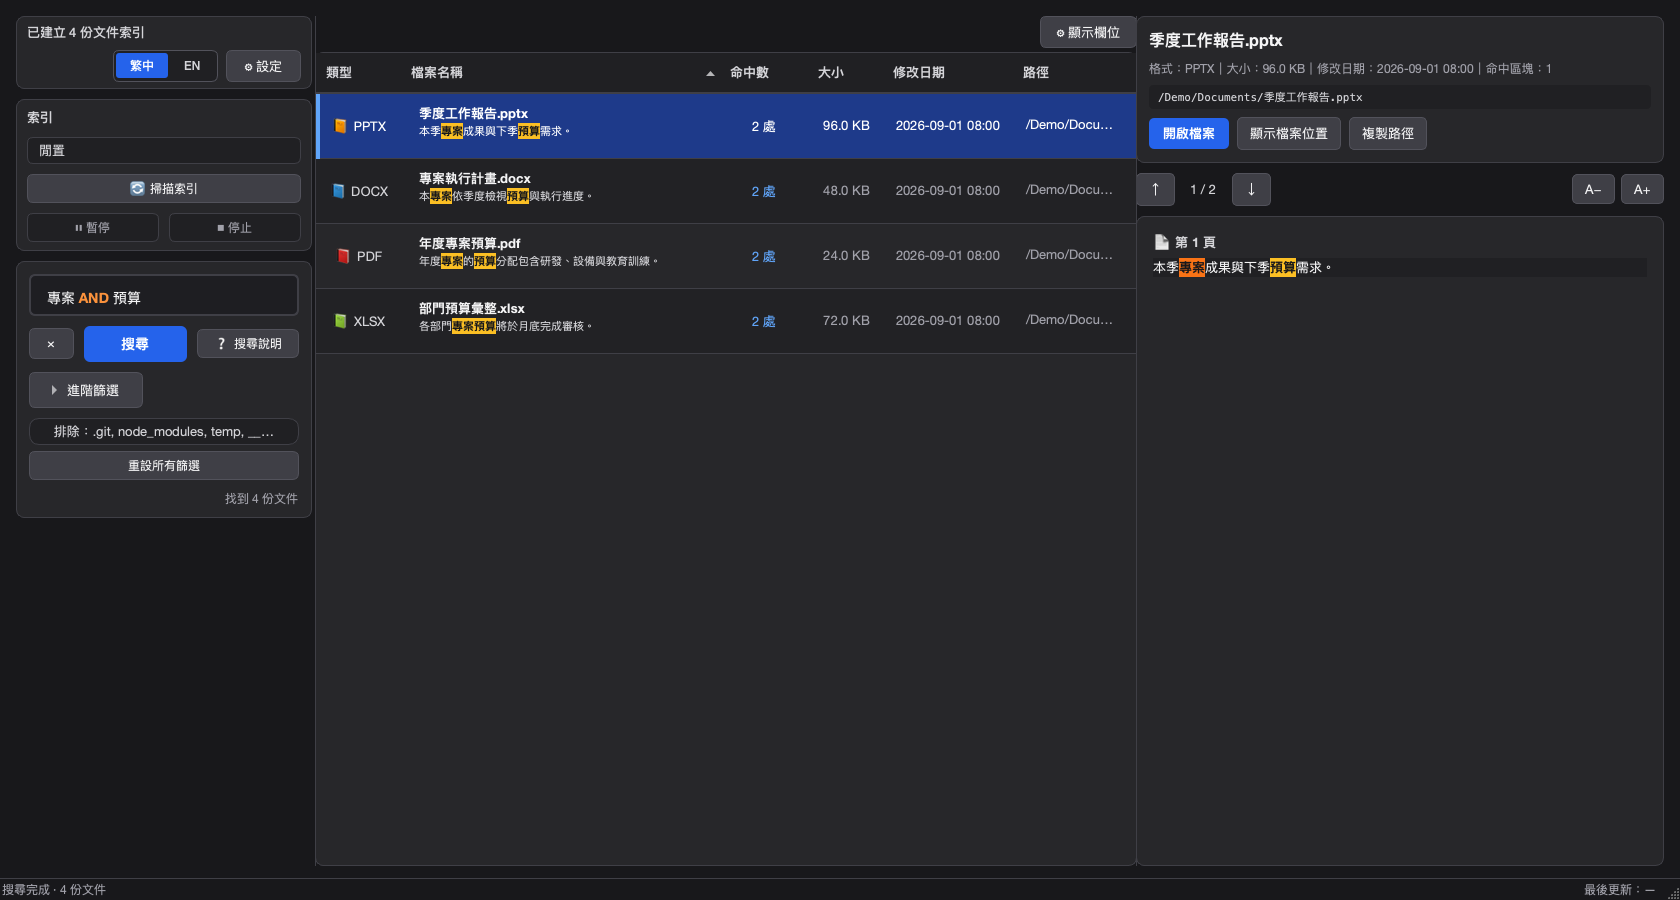
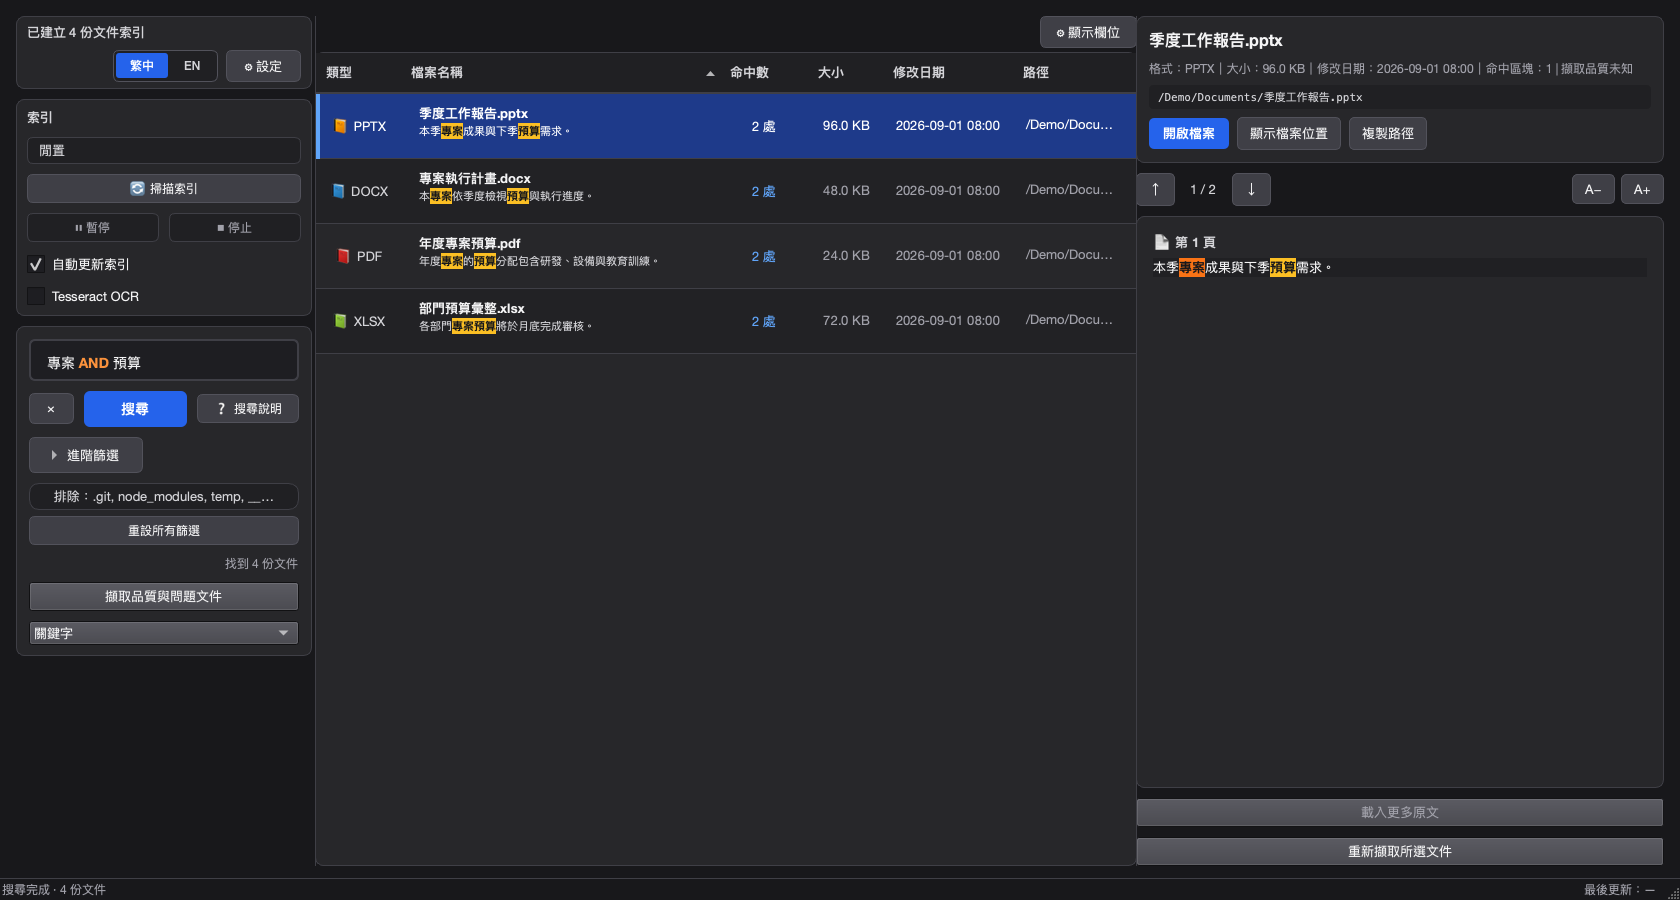
docs: README download section, live indexing, new CLI options, refreshed screenshots (#27)

Changed region(s): [[0.0, 0.28, 0.1857, 0.7156], [0.65, 0.8711, 0.9905, 0.9644], [0.9286, 0.0622, 0.9595, 0.0933]]

diff --git a/README.md b/README.md
@@ -6,6 +6,14 @@
 
 ---
 
+## ⬇ 下載 · Download
+
+不想自行安裝 Python？到 [GitHub Releases 最新版本](https://github.com/hchouTW/doc_searcher/releases/latest) 下載：`DocSearcher-macOS-arm64.zip`（Apple Silicon）或 `DocSearcher-Windows-x64.exe`（Windows x64）。以 `SHA256SUMS.txt` 核對檔案；未簽署版本的首次開啟方式見下方「macOS Gatekeeper」。Linux 請依下方步驟從原始碼安裝。
+
+Don't want to set up Python? Download from the [latest GitHub release](https://github.com/hchouTW/doc_searcher/releases/latest): `DocSearcher-macOS-arm64.zip` (Apple Silicon) or `DocSearcher-Windows-x64.exe` (Windows x64). Verify with `SHA256SUMS.txt`; see "macOS Gatekeeper" below for opening unsigned builds. On Linux, install from source as described below.
+
+---
+
 ## ✨ v1.4.0 更新重點 · What's new in v1.4.0
 
 | 繁體中文 | English |
@@ -50,7 +58,8 @@
    - **純文字**：`.txt`, `.md`, `.csv`（依 BOM 辨識 UTF-8／UTF-16／UTF-32，並偵測無 BOM 的 UTF-16；其餘依序嘗試 UTF-8、Big5、GBK。無 BOM 的 GBK 可能被誤判為 Big5）
    - 路徑可含中日韓文字、emoji、空白、`%`、`_`、`[ ]` 等字元；在 macOS 上，以不同 Unicode 正規化形式（NFC／NFD）拼寫的同一路徑視為同一個檔案。從 1.2.0 升級後，第一次重新掃描會把以 NFD 儲存的舊索引項目重新建立一次。
    - 加密、損毀、空白或無法讀取的文件會記錄原因並略過，不會中斷整批索引；僅設定擁有者密碼（限制列印／複製）的 PDF 仍可擷取文字。
-3. **本機文字擷取與掃描文件 OCR**：
+3. **自動索引與本機文字擷取**：
+   - 勾選「自動更新索引」後，資料夾內的新增、修改、移動與刪除會自動增量索引（桌面版與 MCP 皆適用；CLI 用 `--watch`）；待處理工作與監看錯誤會顯示在診斷中。詳見[全資料夾搜尋設定](docs/full-folder-search.md)。
    - 原生文字快速索引；勾選「Tesseract OCR」（預設關閉，CLI 用 `--ocr`）後，掃描 PDF 與 PNG/JPEG/TIFF 會使用本機 Tesseract OCR。需安裝引擎與中英文語言資料；關閉時略過的頁面與辨識失敗都會列入診斷。詳見[全資料夾搜尋設定](docs/full-folder-search.md)。
 4. **SQLite FTS5 + jieba 中英文全文檢索**：
    - 內建 BM25 相關度評分，支援繁簡中文互搜（輸入簡體可找到繁體文件，反之亦然；以字為單位轉換，不做「軟體／软件」這類地區用語對應；正規表示式模式不轉換，高亮顯示文件原文字元）、英文混合詞組、英文詞形還原（`outstand`／`outstanding`／`outstandings` 互相命中；區分大小寫與完整單字仍要求完全相同）、精確片語（`"..."`）與布林運算（`AND` / `OR` / `NOT`）。
@@ -87,7 +96,7 @@
 | --- | --- |
 | ![淺色模式](docs/screenshots/doc_searcher_light.png) | ![深色模式](docs/screenshots/doc_searcher_dark.png) |
 
-兩種外觀使用相同的示範資料與選取結果，方便比較文字、選取色與關鍵字高亮；圖片中的文件與路徑皆為合成範例。
+畫面左側可見「自動更新索引」與「Tesseract OCR」選項，以及「擷取品質與問題文件」入口。兩種外觀使用相同的示範資料與選取結果，方便比較文字、選取色與關鍵字高亮；圖片中的文件與路徑皆為合成範例。
 
 | 進階篩選（淺色） | 進階篩選（深色） |
 | --- | --- |
@@ -243,7 +252,18 @@ doc-searcher --dir /path/to/documents --search "專案預算"
 
 # 依格式篩選 (支援: pdf, word, excel, ppt, text)
 doc-searcher --dir /path/to/documents --search "專案預算" --type excel
+
+# 持續監看資料夾並自動索引（Ctrl-C 結束；加上 --search 會輸出 JSON 更新）
+doc-searcher --watch --dir /path/to/documents --search "專案預算"
+
+# 擴充搜尋（同義詞、英文拼字容錯）；hybrid 另加本機向量檢索
+doc-searcher --dir /path/to/documents --search "會談" --mode expanded --synonyms /path/to/synonyms.json
+
+# 掃描 PDF／圖片 OCR（預設關閉，需安裝 Tesseract 與語言資料）
+doc-searcher --dir /path/to/documents --search "專案預算" --ocr
 ```
+
+`--mode literal|expanded|hybrid` 選擇檢索模式（預設 literal）；`--synonyms JSON` 指定同義詞字典；`--embedding-model DIR` 指定本機多語言 E5 模型資料夾，`--build-vectors` 由現有索引建立向量（hybrid 需要）。設定與限制詳見[全資料夾搜尋設定](docs/full-folder-search.md)。
 
 CLI 的標準輸出只包含搜尋結果；進度與診斷訊息寫入標準錯誤（可用 `DOC_SEARCHER_LOG_LEVEL=INFO` 或 `DEBUG` 顯示更多記錄）。CLI 只會更新 `--dir` 目錄內的索引，其他目錄的索引不受影響。`--dir` 與 `--search` 必須同時指定。結束代碼：`0` 成功、`1` 目錄無法存取（既有索引保留不變）、`2` 參數錯誤、`3` 無可寫入的資料資料夾。
 
@@ -405,7 +425,8 @@ A fast, cross-platform, pure-Python full-text search app for local documents on 
    - **Plain text**: `.txt`, `.md`, `.csv` (UTF-8/UTF-16/UTF-32 detected from the BOM, BOM-less UTF-16 detected; otherwise UTF-8, Big5, GBK are tried in that order. BOM-less GBK may be misread as Big5)
    - Paths may contain CJK characters, emoji, spaces, `%`, `_`, `[ ]`; on macOS, the same path spelled in different Unicode normalization forms (NFC/NFD) counts as one file. After upgrading from 1.2.0, the first rescan re-creates old index entries that were stored in NFD once.
    - Encrypted, corrupt, empty or unreadable documents are logged with a reason and skipped without stopping the whole batch; PDFs with only an owner password (print/copy restrictions) still yield their text.
-3. **Local extraction and scanned-document OCR**:
+3. **Live indexing and local extraction**:
+   - With **Auto update index** checked, files created, changed, moved or deleted in your folders are indexed incrementally (desktop and MCP; CLI `--watch`). Pending work and watcher errors appear in diagnostics. See [full-folder search setup](docs/full-folder-search.md).
    - Native text is indexed directly; with **Tesseract OCR** checked (off by default; CLI `--ocr`), scanned PDFs and PNG/JPEG/TIFF images use local Tesseract OCR. Install the engine and language data; skipped pages and failures appear in diagnostics. See [full-folder search setup](docs/full-folder-search.md).
 4. **SQLite FTS5 + jieba full-text search for Chinese and English**:
    - Built-in BM25 relevance ranking. **Traditional and Simplified Chinese match each other** (a Simplified query finds Traditional documents and vice versa; converted character by character, with no regional vocabulary mapping such as 軟體/软件; regex mode is not converted; the preview highlights the characters as written in the document). **English word forms match each other** (`outstand`, `outstanding` and `outstandings` find one another; match case and whole word still require the exact word). Mixed-language phrases, exact phrases (`"..."`) and boolean operators (`AND` / `OR` / `NOT`) are supported.
@@ -442,7 +463,7 @@ A fast, cross-platform, pure-Python full-text search app for local documents on 
 | --- | --- |
 | ![Light mode](docs/screenshots/doc_searcher_light.png) | ![Dark mode](docs/screenshots/doc_searcher_dark.png) |
 
-Both appearances use the same demo data and selection so the text, selection color and keyword highlight can be compared; all documents and paths in the images are synthetic examples.
+The left panel shows the **Auto update index** and **Tesseract OCR** options and the **Extraction quality / problems** entry. Both appearances use the same demo data and selection so the text, selection color and keyword highlight can be compared; all documents and paths in the images are synthetic examples.
 
 | Advanced filters (light) | Advanced filters (dark) |
 | --- | --- |
@@ -598,7 +619,18 @@ doc-searcher --dir /path/to/documents --search "project budget"
 
 # Filter by format (supported: pdf, word, excel, ppt, text)
 doc-searcher --dir /path/to/documents --search "project budget" --type excel
+
+# Watch the folder and index changes automatically (Ctrl-C to stop; with --search it emits JSON updates)
+doc-searcher --watch --dir /path/to/documents --search "project budget"
+
+# Expanded search (synonyms, English typo matching); hybrid adds local vector retrieval
+doc-searcher --dir /path/to/documents --search "talks" --mode expanded --synonyms /path/to/synonyms.json
+
+# OCR for scanned PDFs/images (off by default; needs Tesseract and language data)
+doc-searcher --dir /path/to/documents --search "project budget" --ocr
 ```
+
+`--mode literal|expanded|hybrid` selects the retrieval mode (default literal); `--synonyms JSON` supplies a synonym dictionary; `--embedding-model DIR` points to a local multilingual E5 model folder and `--build-vectors` builds vectors from the existing index (needed for hybrid). Setup and limits: [full-folder search setup](docs/full-folder-search.md).
 
 The CLI's standard output contains only the search results; progress and diagnostics go to standard error (set `DOC_SEARCHER_LOG_LEVEL=INFO` or `DEBUG` for more logging). The CLI only updates the index for the `--dir` folder; indexes of other folders are untouched. `--dir` and `--search` must be given together. Exit codes: `0` success, `1` folder not accessible (the existing index is kept unchanged), `2` argument error, `3` no writable data folder.
 
